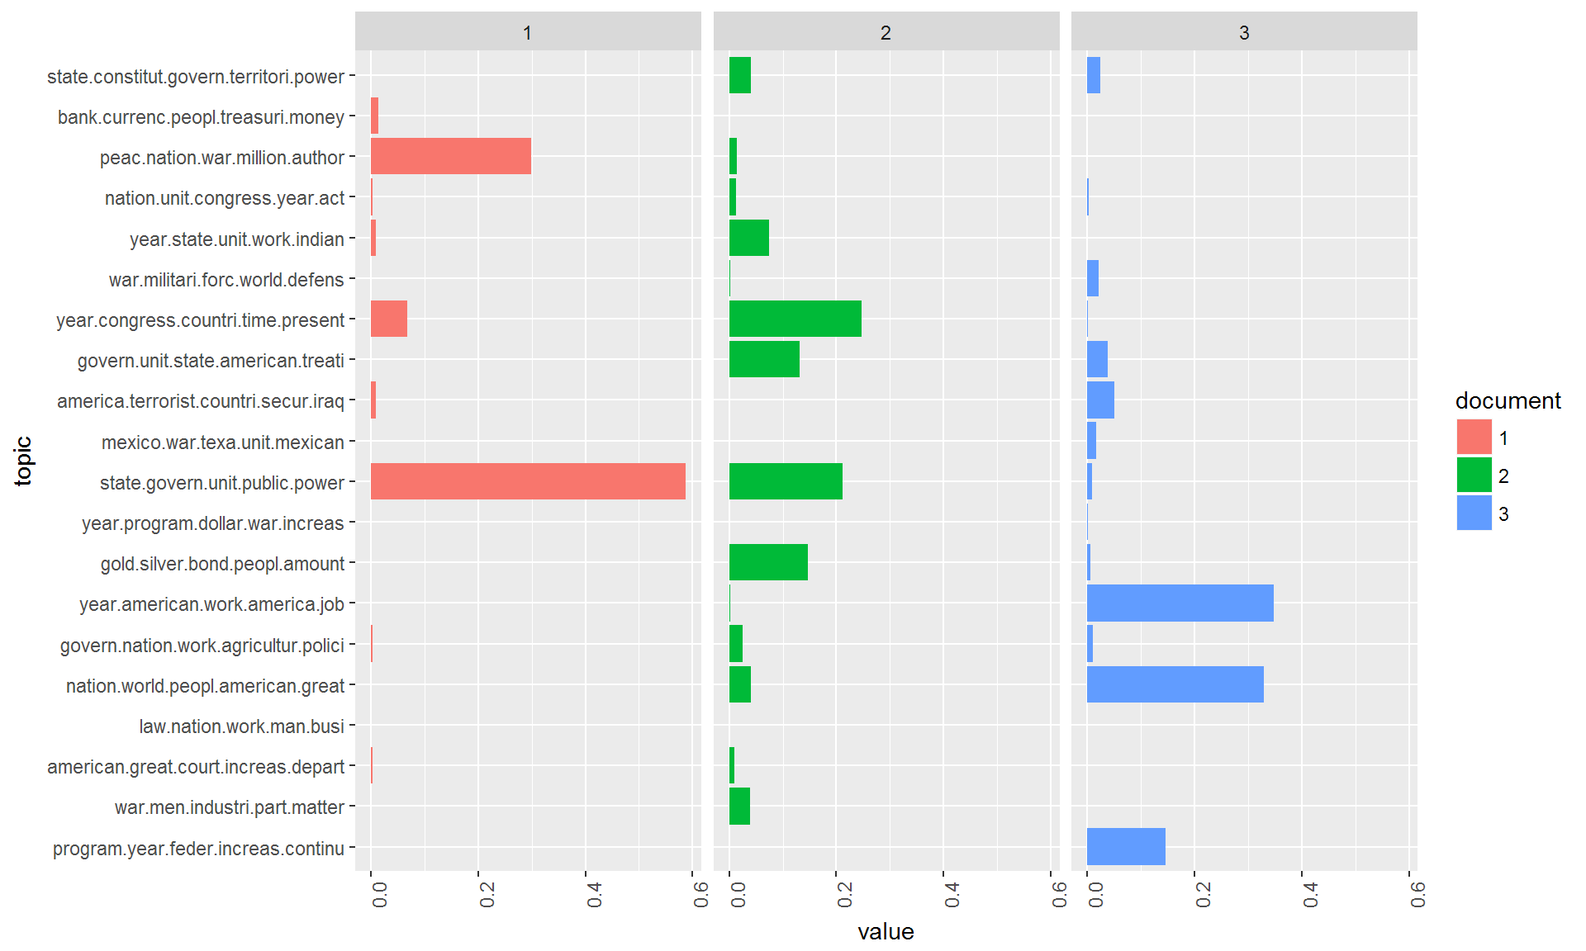
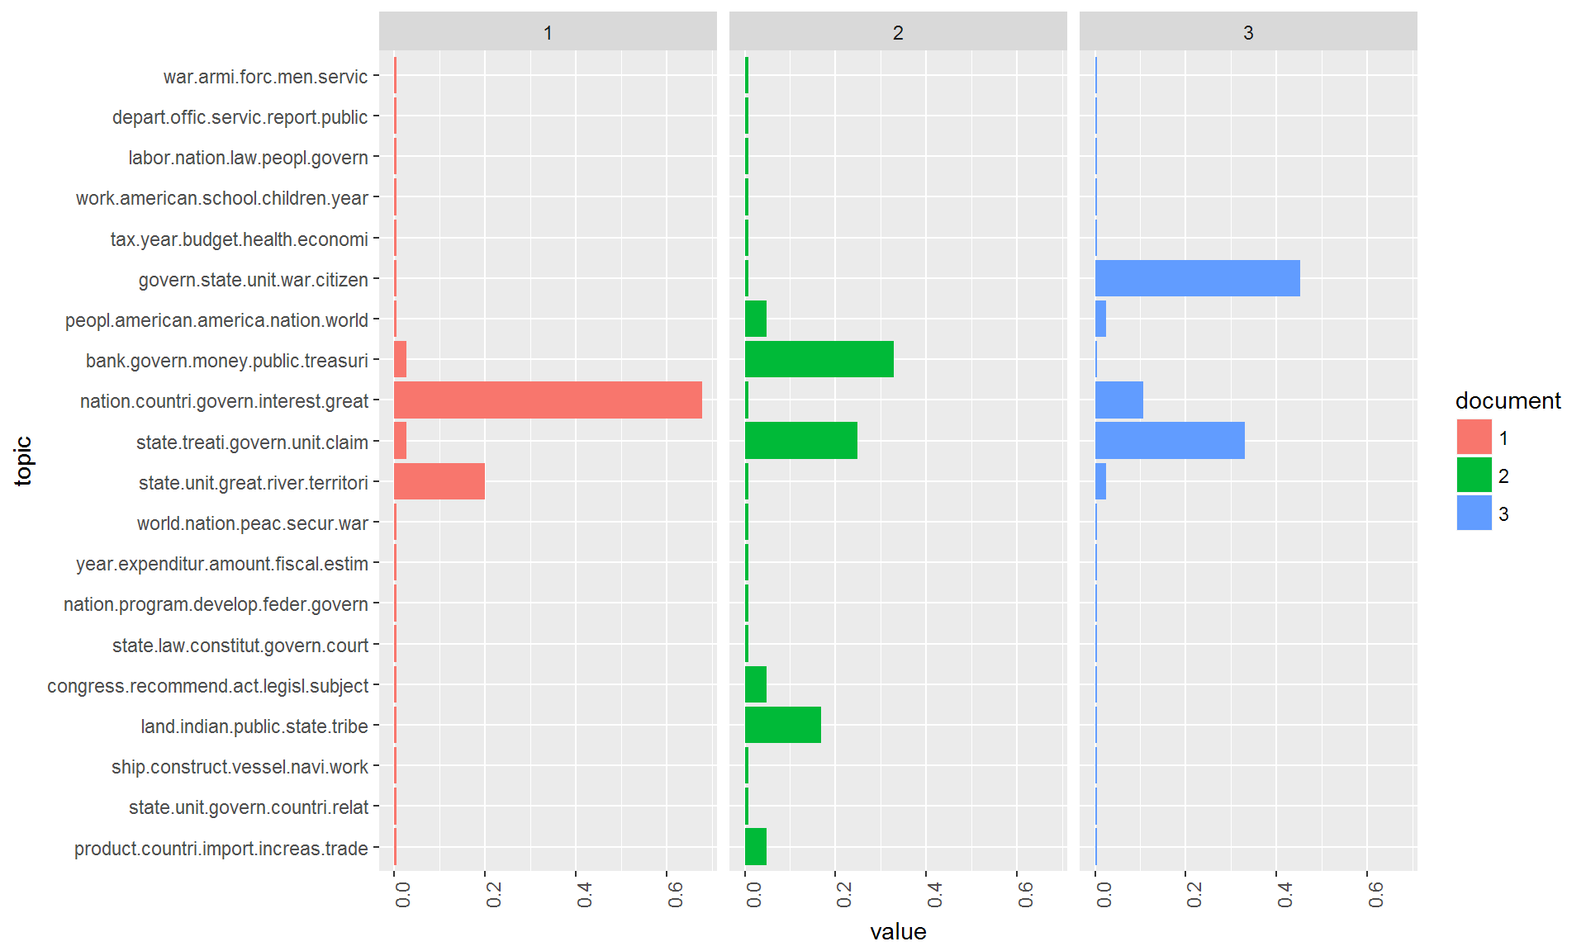
topic model tutorial based on paragraphs

diff --git a/docs/Tutorial_6_Topic_Models.html b/docs/Tutorial_6_Topic_Models.html
@@ -368,8 +368,10 @@ div.tocify {
 options(stringsAsFactors = FALSE)
 library(tm)
 require(topicmodels)</code></pre>
+<p>The 231 SOTU addresses are rather long documents. Documents lengths clearly affects the results of topic modeling. For very short texts (e.g. Twitter posts) or very long texts (e.g. books), it can make sense to concatenate/split single documents to receive longer/shorter textual units for modeling.</p>
+<p>For the SOTU speeches for instance, we infer the model based on paragraphs instead of entire speeches. By manual inspection / qualitative inspection of the results you can check if this procedure yields better (interpretable) topics. In <code>sotu_paragraphs.csv</code>, we provide a paragraph separated version of the speeches.</p>
 <p>For text preprocessing, we remove stopwords, since they tend to occur as “noise” in the estimated topics of the LDA model.</p>
-<pre class="r"><code>textdata &lt;- read.csv(&quot;data/sotu.csv&quot;, sep = &quot;;&quot;, encoding = &quot;UTF-8&quot;)
+<pre class="r"><code>textdata &lt;- read.csv(&quot;data/sotu_paragraphs.csv&quot;, sep = &quot;;&quot;, encoding = &quot;UTF-8&quot;)
 english_stopwords &lt;- readLines(&quot;resources/stopwords_en.txt&quot;, encoding = &quot;UTF-8&quot;)
 
 # Create corpus object
@@ -392,7 +394,13 @@ DTM &lt;- DocumentTermMatrix(processedCorpus, control = list(bounds = list(globa
 
 # have a look at the number of documents and terms in the matrix
 dim(DTM)</code></pre>
-<pre><code>## [1]  231 5795</code></pre>
+<pre><code>## [1] 21334  6042</code></pre>
+<pre class="r"><code># due to vocabulary pruning, we have empty rows in our DTM
+# LDA does not like this. So we remove those docs from the
+# DTM and the metadata
+sel_idx &lt;- slam::row_sums(DTM) &gt; 0
+DTM &lt;- DTM[sel_idx, ]
+textdata &lt;- textdata[sel_idx, ]</code></pre>
 <p>As an unsupervised machine learning method, topic models are suitable for the exploration of data. The calculation of topic models aims to determine the proportionate composition of a fixed number of topics in the documents of a collection. It is useful to experiment with different parameters in order to find the most suitable parameters for your own analysis needs.</p>
 <p>For parameterized models such as Latent Dirichlet Allocation (LDA), the number of topics <code>K</code> is the most important parameter to define in advance. How an optimal <code>K</code> should be selected depends on various factors. If <code>K</code> is too small, the collection is divided into a few very general semantic contexts. If <code>K</code> is too large, the collection is divided into too many topics of which some may overlap and others are hardly interpretable.</p>
 <p>For our first analysis we choose a thematic “resolution” of <code>K = 20</code> topics. In contrast to a resolution of 100 or more, this number of topics can be evaluated qualitatively very easy.</p>
@@ -405,7 +413,7 @@ set.seed(9161)
 # compute the LDA model, inference via 1000 iterations of Gibbs sampling
 topicModel &lt;- LDA(DTM, K, method=&quot;Gibbs&quot;, control=list(iter = 500, verbose = 25))</code></pre>
 <p>Depending on the size of the vocabulary, the collection size and the number K, the inference of topic models can take a very long time. This calculation may take several minutes. If it takes too long, reduce the vocabulary in the DTM by increasing the minimum frequency in the previous step.</p>
-<p>The topic model inference results in two (approximate) posterior probability distributions: a distribution <code>theta</code> over K topics within each document and a distribution <code>beta</code> over V terms within each topic, where V represents the length of the vocabulary of the collection (V = 5795). Let’s take a closer look at these results:</p>
+<p>The topic model inference results in two (approximate) posterior probability distributions: a distribution <code>theta</code> over K topics within each document and a distribution <code>beta</code> over V terms within each topic, where V represents the length of the vocabulary of the collection (V = 6042). Let’s take a closer look at these results:</p>
 <pre class="r"><code># have a look a some of the results (posterior distributions)
 tmResult &lt;- posterior(topicModel)
 # format of the resulting object
@@ -413,47 +421,47 @@ attributes(tmResult)</code></pre>
 <pre><code>## $names
 ## [1] &quot;terms&quot;  &quot;topics&quot;</code></pre>
 <pre class="r"><code>nTerms(DTM)              # lengthOfVocab</code></pre>
-<pre><code>## [1] 5795</code></pre>
+<pre><code>## [1] 6042</code></pre>
 <pre class="r"><code># topics are probability distribtions over the entire vocabulary
 beta &lt;- tmResult$terms   # get beta from results
 dim(beta)                # K distributions over nTerms(DTM) terms</code></pre>
-<pre><code>## [1]   20 5795</code></pre>
+<pre><code>## [1]   20 6042</code></pre>
 <pre class="r"><code>rowSums(beta)            # rows in beta sum to 1</code></pre>
 <pre><code>##  1  2  3  4  5  6  7  8  9 10 11 12 13 14 15 16 17 18 19 20 
 ##  1  1  1  1  1  1  1  1  1  1  1  1  1  1  1  1  1  1  1  1</code></pre>
 <pre class="r"><code>nDocs(DTM)               # size of collection</code></pre>
-<pre><code>## [1] 231</code></pre>
+<pre><code>## [1] 21268</code></pre>
 <pre class="r"><code># for every document we have a probaility distribution of its contained topics
 theta &lt;- tmResult$topics 
 dim(theta)               # nDocs(DTM) distributions over K topics</code></pre>
-<pre><code>## [1] 231  20</code></pre>
+<pre><code>## [1] 21268    20</code></pre>
 <pre class="r"><code>rowSums(theta)[1:10]     # rows in theta sum to 1</code></pre>
 <pre><code>##  1  2  3  4  5  6  7  8  9 10 
 ##  1  1  1  1  1  1  1  1  1  1</code></pre>
 <p>Let’s take a look at the 10 most likely terms within the term probabilities <code>beta</code> of the inferred topics (only the first 8 are shown below).</p>
 <pre class="r"><code>terms(topicModel, 10)</code></pre>
-<pre><code>##       Topic 1    Topic 2    Topic 3    Topic 4     Topic 5   Topic 6   
-##  [1,] &quot;nation&quot;   &quot;state&quot;    &quot;war&quot;      &quot;war&quot;       &quot;world&quot;   &quot;year&quot;    
-##  [2,] &quot;peopl&quot;    &quot;unit&quot;     &quot;govern&quot;   &quot;nation&quot;    &quot;nation&quot;  &quot;american&quot;
-##  [3,] &quot;congress&quot; &quot;congress&quot; &quot;men&quot;      &quot;forc&quot;      &quot;war&quot;     &quot;america&quot; 
-##  [4,] &quot;power&quot;    &quot;govern&quot;   &quot;great&quot;    &quot;establish&quot; &quot;free&quot;    &quot;peopl&quot;   
-##  [5,] &quot;peac&quot;     &quot;treati&quot;   &quot;make&quot;     &quot;author&quot;    &quot;freedom&quot; &quot;world&quot;   
-##  [6,] &quot;great&quot;    &quot;year&quot;     &quot;peopl&quot;    &quot;object&quot;    &quot;forc&quot;    &quot;time&quot;    
-##  [7,] &quot;govern&quot;   &quot;great&quot;    &quot;matter&quot;   &quot;peac&quot;      &quot;peac&quot;    &quot;make&quot;    
-##  [8,] &quot;citizen&quot;  &quot;duti&quot;     &quot;peac&quot;     &quot;debt&quot;      &quot;unit&quot;    &quot;tax&quot;     
-##  [9,] &quot;prosper&quot;  &quot;act&quot;      &quot;labor&quot;    &quot;million&quot;   &quot;peopl&quot;   &quot;congress&quot;
-## [10,] &quot;protect&quot;  &quot;effect&quot;   &quot;industri&quot; &quot;communic&quot;  &quot;defens&quot;  &quot;govern&quot;  
-##       Topic 7      Topic 8   
-##  [1,] &quot;year&quot;       &quot;year&quot;    
-##  [2,] &quot;program&quot;    &quot;govern&quot;  
-##  [3,] &quot;govern&quot;     &quot;gold&quot;    
-##  [4,] &quot;dollar&quot;     &quot;silver&quot;  
-##  [5,] &quot;million&quot;    &quot;present&quot; 
-##  [6,] &quot;war&quot;        &quot;amount&quot;  
-##  [7,] &quot;increas&quot;    &quot;bond&quot;    
-##  [8,] &quot;expenditur&quot; &quot;treasuri&quot;
-##  [9,] &quot;recommend&quot;  &quot;peopl&quot;   
-## [10,] &quot;fiscal&quot;     &quot;condit&quot;</code></pre>
+<pre><code>##       Topic 1     Topic 2    Topic 3    Topic 4     Topic 5   Topic 6   
+##  [1,] &quot;congress&quot;  &quot;relat&quot;    &quot;measur&quot;   &quot;land&quot;      &quot;year&quot;    &quot;state&quot;   
+##  [2,] &quot;state&quot;     &quot;countri&quot;  &quot;object&quot;   &quot;indian&quot;    &quot;tax&quot;     &quot;unit&quot;    
+##  [3,] &quot;constitut&quot; &quot;govern&quot;   &quot;interest&quot; &quot;public&quot;    &quot;economi&quot; &quot;govern&quot;  
+##  [4,] &quot;power&quot;     &quot;foreign&quot;  &quot;present&quot;  &quot;territori&quot; &quot;job&quot;     &quot;citizen&quot; 
+##  [5,] &quot;presid&quot;    &quot;american&quot; &quot;great&quot;    &quot;limit&quot;     &quot;budget&quot;  &quot;mexico&quot;  
+##  [6,] &quot;act&quot;       &quot;interest&quot; &quot;exist&quot;    &quot;protect&quot;   &quot;cost&quot;    &quot;power&quot;   
+##  [7,] &quot;hous&quot;      &quot;intern&quot;   &quot;consider&quot; &quot;general&quot;   &quot;rate&quot;    &quot;right&quot;   
+##  [8,] &quot;repres&quot;    &quot;nation&quot;   &quot;duti&quot;     &quot;made&quot;      &quot;save&quot;    &quot;properti&quot;
+##  [9,] &quot;union&quot;     &quot;power&quot;    &quot;subject&quot;  &quot;larg&quot;      &quot;billion&quot; &quot;part&quot;    
+## [10,] &quot;author&quot;    &quot;polici&quot;   &quot;view&quot;     &quot;popul&quot;     &quot;busi&quot;    &quot;author&quot;  
+##       Topic 7     Topic 8  
+##  [1,] &quot;work&quot;      &quot;unit&quot;   
+##  [2,] &quot;make&quot;      &quot;treati&quot; 
+##  [3,] &quot;time&quot;      &quot;state&quot;  
+##  [4,] &quot;give&quot;      &quot;govern&quot; 
+##  [5,] &quot;opportun&quot;  &quot;claim&quot;  
+##  [6,] &quot;educ&quot;      &quot;negoti&quot; 
+##  [7,] &quot;communiti&quot; &quot;convent&quot;
+##  [8,] &quot;respons&quot;   &quot;minist&quot; 
+##  [9,] &quot;school&quot;    &quot;britain&quot;
+## [10,] &quot;progress&quot;  &quot;adjust&quot;</code></pre>
 <p>For the next steps, we want to give the topics more descriptive names than just numbers. Therefore, we simply concatenate the five most likely terms of each topic to a string that represents a pseudo-name for each topic.</p>
 <pre class="r"><code>top5termsPerTopic &lt;- terms(topicModel, 5)
 topicNames &lt;- apply(top5termsPerTopic, 2, paste, collapse=&quot; &quot;)</code></pre>
@@ -477,11 +485,11 @@ wordcloud(words, probabilities, random.order = FALSE, color = mycolors)</code></
 <p><img src="Tutorial_6_Topic_Models_files/figure-html/unnamed-chunk-5-1.png" width="384" style="display: block; margin: auto;" /></p>
 <p>Let us now look more closely at the distribution of topics within individual documents. To this end, we visualize the distribution in 3 sample documents.</p>
 <p>Let us first take a look at the contents of three sample documents:</p>
-<pre class="r"><code>exampleIds &lt;- c(1, 100, 200)
+<pre class="r"><code>exampleIds &lt;- c(2, 100, 200)
 lapply(corpus[exampleIds], as.character)</code></pre>
-<pre><code>## [1] &quot;1: Fellow-Citizens of the Senate and House of Representatives:\n\nI embrace with great satisfaction the opportunity which now presents itself\nof congratulating you on the present favorable prospects of our public\naffairs. The recent accession of the important state of North Carolina to\nthe Constitution of the United States (of which official information has\nbeen received), the rising credit and respect...&quot;</code></pre>
-<pre><code>## [1] &quot;100: To the Congress of the United States:\n\nAs you assemble for the discharge of the duties you have assumed as the\nrepresentatives of a free and generous people, your meeting is marked by an\ninteresting and impressive incident. With the expiration of the present\nsession of the Congress the first century of our constitutional existence\nas a nation will be completed.\n\nOur survival for one hundred years ...&quot;</code></pre>
-<pre><code>## [1] &quot;200: Mr. Speaker, Mr. President, distinguished Members of Congress, honored\nguests, and fellow citizens:\n\nMay I congratulate all of you who are Members of this historic 100th\nCongress of the United States of America. In this 200th anniversary year of\nour Constitution, you and I stand on the shoulders of giants--men whose\nwords and deeds put wind in the sails of freedom. However, we must always\nremember...&quot;</code></pre>
+<pre><code>## [1] &quot;2: I embrace with great satisfaction the opportunity which now presents itself\nof congratulating you on the present favorable prospects of our public\naffairs. The recent accession of the important state of North Carolina to\nthe Constitution of the United States (of which official information has\nbeen received), the rising credit and respectability of our country, the\ngeneral and increasing good will ...&quot;</code></pre>
+<pre><code>## [1] &quot;100: Provision is likewise requisite for the reimbursement of the loan which has\nbeen made of the Bank of the United States, pursuant to the eleventh\nsection of the act by which it is incorporated. In fulfilling the public\nstipulations in this particular it is expected a valuable saving will be\nmade....&quot;</code></pre>
+<pre><code>## [1] &quot;200: After many delays and disappointments arising out of the European war, the\nfinal arrangements for fulfilling the engagements made to the Dey and\nRegency of Algiers will in all present appearance be crowned with success,\nbut under great, though inevitable, disadvantages in the pecuniary\ntransactions occasioned by that war, which will render further provision\nnecessary. The actual liberation of all ...&quot;</code></pre>
 <p>After looking into the documents, we visualize the topic distributions within the documents.</p>
 <pre class="r"><code># load libraries for visualization
 library(&quot;reshape2&quot;)
@@ -534,31 +542,31 @@ topicNames &lt;- apply(lda::top.topic.words(beta, 5, by.score = T), 2, paste, co
 <p>What are the defining topics within a collection? There are different approaches to find out which can be used to bring the topics into a certain order.</p>
 <p><strong>Approach 1:</strong> We sort topics according to their probability within the entire collection:</p>
 <pre class="r"><code># What are the most probable topics in the entire collection?
-topicProportions &lt;- colSums(theta) / nDocs(DTM)  # mean probablities over all documents
+topicProportions &lt;- colSums(theta) / nDocs(DTM)  # mean probablities over all paragraphs
 names(topicProportions) &lt;- topicNames     # assign the topic names we created before
 sort(topicProportions, decreasing = TRUE) # show summed proportions in decreased order</code></pre>
-<pre><code>##  [1] &quot;0.18797 : state govern public subject unit&quot;        
-##  [2] &quot;0.12158 : year congress time present made&quot;         
-##  [3] &quot;0.11753 : nation world peopl great live&quot;           
-##  [4] &quot;0.08658 : job year work america american&quot;          
-##  [5] &quot;0.06485 : nation agricultur govern industri polici&quot;
-##  [6] &quot;0.05647 : program year feder continu develop&quot;      
-##  [7] &quot;0.05252 : peac nation consider fellow militia&quot;     
-##  [8] &quot;0.04001 : spain nation coloni congress unit&quot;       
-##  [9] &quot;0.03386 : govern unit state treati convent&quot;        
-## [10] &quot;0.03371 : industri men war matter make&quot;            
-## [11] &quot;0.02963 : program dollar year price expenditur&quot;    
-## [12] &quot;0.02773 : year indian report state work&quot;           
-## [13] &quot;0.02477 : war communist fight militari world&quot;      
-## [14] &quot;0.02162 : constitut state territori union power&quot;   
-## [15] &quot;0.02121 : great court american cent tariff&quot;        
-## [16] &quot;0.02095 : america terrorist iraq terror countri&quot;   
-## [17] &quot;0.01829 : law man work corpor nation&quot;              
-## [18] &quot;0.01449 : mexico texa mexican war territori&quot;       
-## [19] &quot;0.0135 : bank currenc circul treasuri money&quot;       
-## [20] &quot;0.01272 : gold silver bond amount note&quot;</code></pre>
+<pre><code>##  [1] &quot;0.06775 : america peopl world american freedom&quot;     
+##  [2] &quot;0.06286 : world peac nation war forc&quot;               
+##  [3] &quot;0.06088 : nation interest countri great peopl&quot;      
+##  [4] &quot;0.06009 : school children educ work job&quot;            
+##  [5] &quot;0.05839 : program feder develop energi econom&quot;      
+##  [6] &quot;0.05691 : tax budget year health cut&quot;               
+##  [7] &quot;0.05488 : treati unit state claim convent&quot;          
+##  [8] &quot;0.05418 : congress recommend legisl session subject&quot;
+##  [9] &quot;0.05049 : state constitut law court elect&quot;          
+## [10] &quot;0.04986 : depart offic servic report public&quot;        
+## [11] &quot;0.04814 : year expenditur amount fiscal estim&quot;      
+## [12] &quot;0.04795 : state unit relat foreign american&quot;        
+## [13] &quot;0.04776 : labor law man busi men&quot;                   
+## [14] &quot;0.0476 : state war unit govern citizen&quot;             
+## [15] &quot;0.04618 : product price market trade industri&quot;      
+## [16] &quot;0.03996 : war armi men forc servic&quot;                 
+## [17] &quot;0.03986 : bank money gold treasuri currenc&quot;         
+## [18] &quot;0.03756 : ship vessel construct navi naval&quot;         
+## [19] &quot;0.03458 : land indian tribe public territori&quot;       
+## [20] &quot;0.03411 : state unit river territori line&quot;</code></pre>
 <p>We recognize some topics that are way more likely to occur in the corpus than others. These describe rather general thematic coherences. Other topics correspond more to specific contents.</p>
-<p><strong>Approach 2:</strong> We count how often a topic appears as a primary topic within a document. This method is also called Rank-1.</p>
+<p><strong>Approach 2:</strong> We count how often a topic appears as a primary topic within a paragraph This method is also called Rank-1.</p>
 <pre class="r"><code>countsOfPrimaryTopics &lt;- rep(0, K)
 names(countsOfPrimaryTopics) &lt;- topicNames
 for (i in 1:nDocs(DTM)) {
@@ -568,32 +576,32 @@ for (i in 1:nDocs(DTM)) {
   countsOfPrimaryTopics[primaryTopic] &lt;- countsOfPrimaryTopics[primaryTopic] + 1
 }
 sort(countsOfPrimaryTopics, decreasing = TRUE)</code></pre>
-<pre><code>##  [1] &quot;69 : state govern public subject unit&quot;        
-##  [2] &quot;34 : nation world peopl great live&quot;           
-##  [3] &quot;24 : job year work america american&quot;          
-##  [4] &quot;20 : nation agricultur govern industri polici&quot;
-##  [5] &quot;20 : year congress time present made&quot;         
-##  [6] &quot;10 : govern unit state treati convent&quot;        
-##  [7] &quot;8 : america terrorist iraq terror countri&quot;    
-##  [8] &quot;7 : program year feder continu develop&quot;       
-##  [9] &quot;7 : industri men war matter make&quot;             
-## [10] &quot;7 : law man work corpor nation&quot;               
-## [11] &quot;5 : peac nation consider fellow militia&quot;      
-## [12] &quot;4 : war communist fight militari world&quot;       
-## [13] &quot;3 : great court american cent tariff&quot;         
-## [14] &quot;3 : year indian report state work&quot;            
-## [15] &quot;3 : constitut state territori union power&quot;    
-## [16] &quot;2 : program dollar year price expenditur&quot;     
-## [17] &quot;2 : mexico texa mexican war territori&quot;        
-## [18] &quot;2 : spain nation coloni congress unit&quot;        
-## [19] &quot;1 : gold silver bond amount note&quot;             
-## [20] &quot;0 : bank currenc circul treasuri money&quot;</code></pre>
+<pre><code>##  [1] &quot;1795 : world peac nation war forc&quot;               
+##  [2] &quot;1712 : america peopl world american freedom&quot;     
+##  [3] &quot;1490 : program feder develop energi econom&quot;      
+##  [4] &quot;1487 : school children educ work job&quot;            
+##  [5] &quot;1331 : tax budget year health cut&quot;               
+##  [6] &quot;1304 : nation interest countri great peopl&quot;      
+##  [7] &quot;1220 : treati unit state claim convent&quot;          
+##  [8] &quot;1049 : congress recommend legisl session subject&quot;
+##  [9] &quot;1040 : state unit relat foreign american&quot;        
+## [10] &quot;1040 : state constitut law court elect&quot;          
+## [11] &quot;971 : product price market trade industri&quot;       
+## [12] &quot;959 : year expenditur amount fiscal estim&quot;       
+## [13] &quot;941 : depart offic servic report public&quot;         
+## [14] &quot;923 : state war unit govern citizen&quot;             
+## [15] &quot;800 : labor law man busi men&quot;                    
+## [16] &quot;725 : bank money gold treasuri currenc&quot;          
+## [17] &quot;713 : ship vessel construct navi naval&quot;          
+## [18] &quot;677 : war armi men forc servic&quot;                  
+## [19] &quot;598 : land indian tribe public territori&quot;        
+## [20] &quot;493 : state unit river territori line&quot;</code></pre>
 <p>We see that sorting topics by the Rank-1 method places topics with rather specific thematic coherences in upper ranks of the list.</p>
 <p>This sorting of topics can be used for further analysis steps such as the semantic interpretation of topics found in the collection, the analysis of time series of the most important topics or the filtering of the original collection based on specific sub-topics.</p>
 </div>
 <div id="filtering-documents" class="section level1">
 <h1><span class="header-section-number">5</span> Filtering documents</h1>
-<p>The fact that a topic model conveys of topic probabilities for each document makes it possible to use it for thematic filtering of a collection. AS filter we select only those documents which exceed a certain threshold of their probability value for certain topics (for example, each document which contains topic <code>X</code> to more than 20 percent).</p>
+<p>The fact that a topic model conveys of topic probabilities for each document, resp. paragraph in our case, makes it possible to use it for thematic filtering of a collection. AS filter we select only those documents which exceed a certain threshold of their probability value for certain topics (for example, each document which contains topic <code>X</code> to more than 20 percent).</p>
 <p>In the following, we will select documents based on their topic content and display the resulting document quantity over time.</p>
 <pre class="r"><code>topicToFilter &lt;- 6  # you can set this manually ...
 # ... or have it selected by a term in the topic name (e.g. &#39;iraq&#39;)
@@ -605,9 +613,9 @@ filteredCorpus &lt;- corpus[selectedDocumentIndexes]
 # show length of filtered corpus
 filteredCorpus</code></pre>
 <pre><code>## &lt;&lt;SimpleCorpus&gt;&gt;
-## Metadata:  corpus specific: 1, document level (indexed): 3
-## Content:  documents: 8</code></pre>
-<p>Our filtered corpus contains 8 documents related to the topic 12 to at least 20 %.</p>
+## Metadata:  corpus specific: 1, document level (indexed): 4
+## Content:  documents: 0</code></pre>
+<p>Our filtered corpus contains 0 documents related to the topic NA to at least 20 %.</p>
 </div>
 <div id="topic-proportions-over-time" class="section level1">
 <h1><span class="header-section-number">6</span> Topic proportions over time</h1>
@@ -631,13 +639,8 @@ ggplot(vizDataFrame, aes(x=decade, y=value, fill=variable)) +
 <p><img src="Tutorial_6_Topic_Models_files/figure-html/unnamed-chunk-16-1.png" width="864" style="display: block; margin: auto;" /></p>
 <p>The visualization shows that topics around the relation between the federal government and the states as well as inner conflicts clearly dominate the first decades. Security issues and the economy are the most important topics of recent SOTU addresses.</p>
 </div>
-<div id="remark" class="section level1">
-<h1><span class="header-section-number">7</span> Remark</h1>
-<p>The 231 SOTU addresses are rather long documents. Documents lengths clearly affects the results of topic modeling. For very short texts (e.g. Twitter posts) or very long texts (e.g. books), it can make sense to concatenate/split single documents to receive longer/shorter textual units for modeling.</p>
-<p>For the SOTU speeches for instance, it may be beneficial to model on paragraphs instead of entire speeches. By manual inspection / qualitative inspection of the results you can check if this procedure yields better (interpretable) topics.</p>
-</div>
 <div id="optional-exercises" class="section level1">
-<h1><span class="header-section-number">8</span> Optional exercises</h1>
+<h1><span class="header-section-number">7</span> Optional exercises</h1>
 <ol style="list-style-type: decimal">
 <li>Create a list of all documents that have a thematic context with <em>economy</em>.</li>
 <li>Repeat the exercises with a different K value (e.g., K = 5, 30, 50). What do you think of the results?</li>
